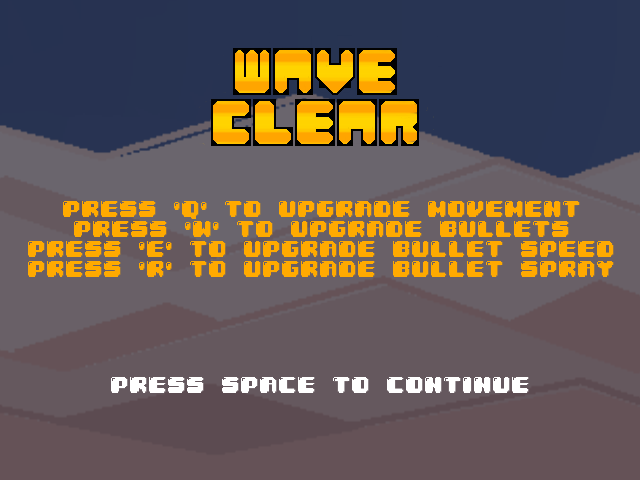
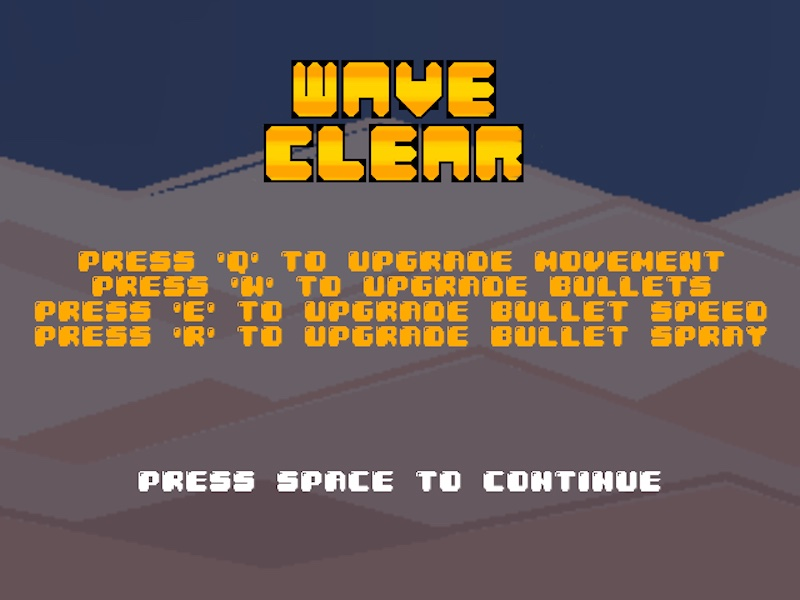
final changes

diff --git a/src/scenes/WaveClearMenu.js b/src/scenes/WaveClearMenu.js
@@ -4,7 +4,7 @@ class WaveClearMenu extends Phaser.Scene {
     }
     preload() {
 
-        this.load.image('map_1', './assets/clear.png')
+        this.load.image('wave_clear_pic', './assets/good_clear.png')
         this.load.audio('sfx_select', './assets/select_Current.wav');
         this.load.audio('sfx_explosion', './assets/assets_explosion38.wav');
         this.load.audio('sfx_rocket', './assets/assets_rocket_shot.wav');
@@ -44,11 +44,11 @@ class WaveClearMenu extends Phaser.Scene {
         // show menu text
         var newWave = game.settings.currWave+1;
         var str = "Get Ready for Wave " + newWave.toString();
-        this.map_1 = this.add.tileSprite(0, 0, game.config.width, game.config.height, 'map_1').setOrigin(0, 0);
+        this.map_1 = this.add.tileSprite(0, 0, game.config.width, game.config.height, 'wave_clear_pic').setOrigin(0, 0);
 
         menuConfig.backgroundColor = "#4B0082";
         menuConfig.color = '#ADD8E6';
-      
+
 
         // define keys
         keyQ = this.input.keyboard.addKey(Phaser.Input.Keyboard.KeyCodes.Q);
